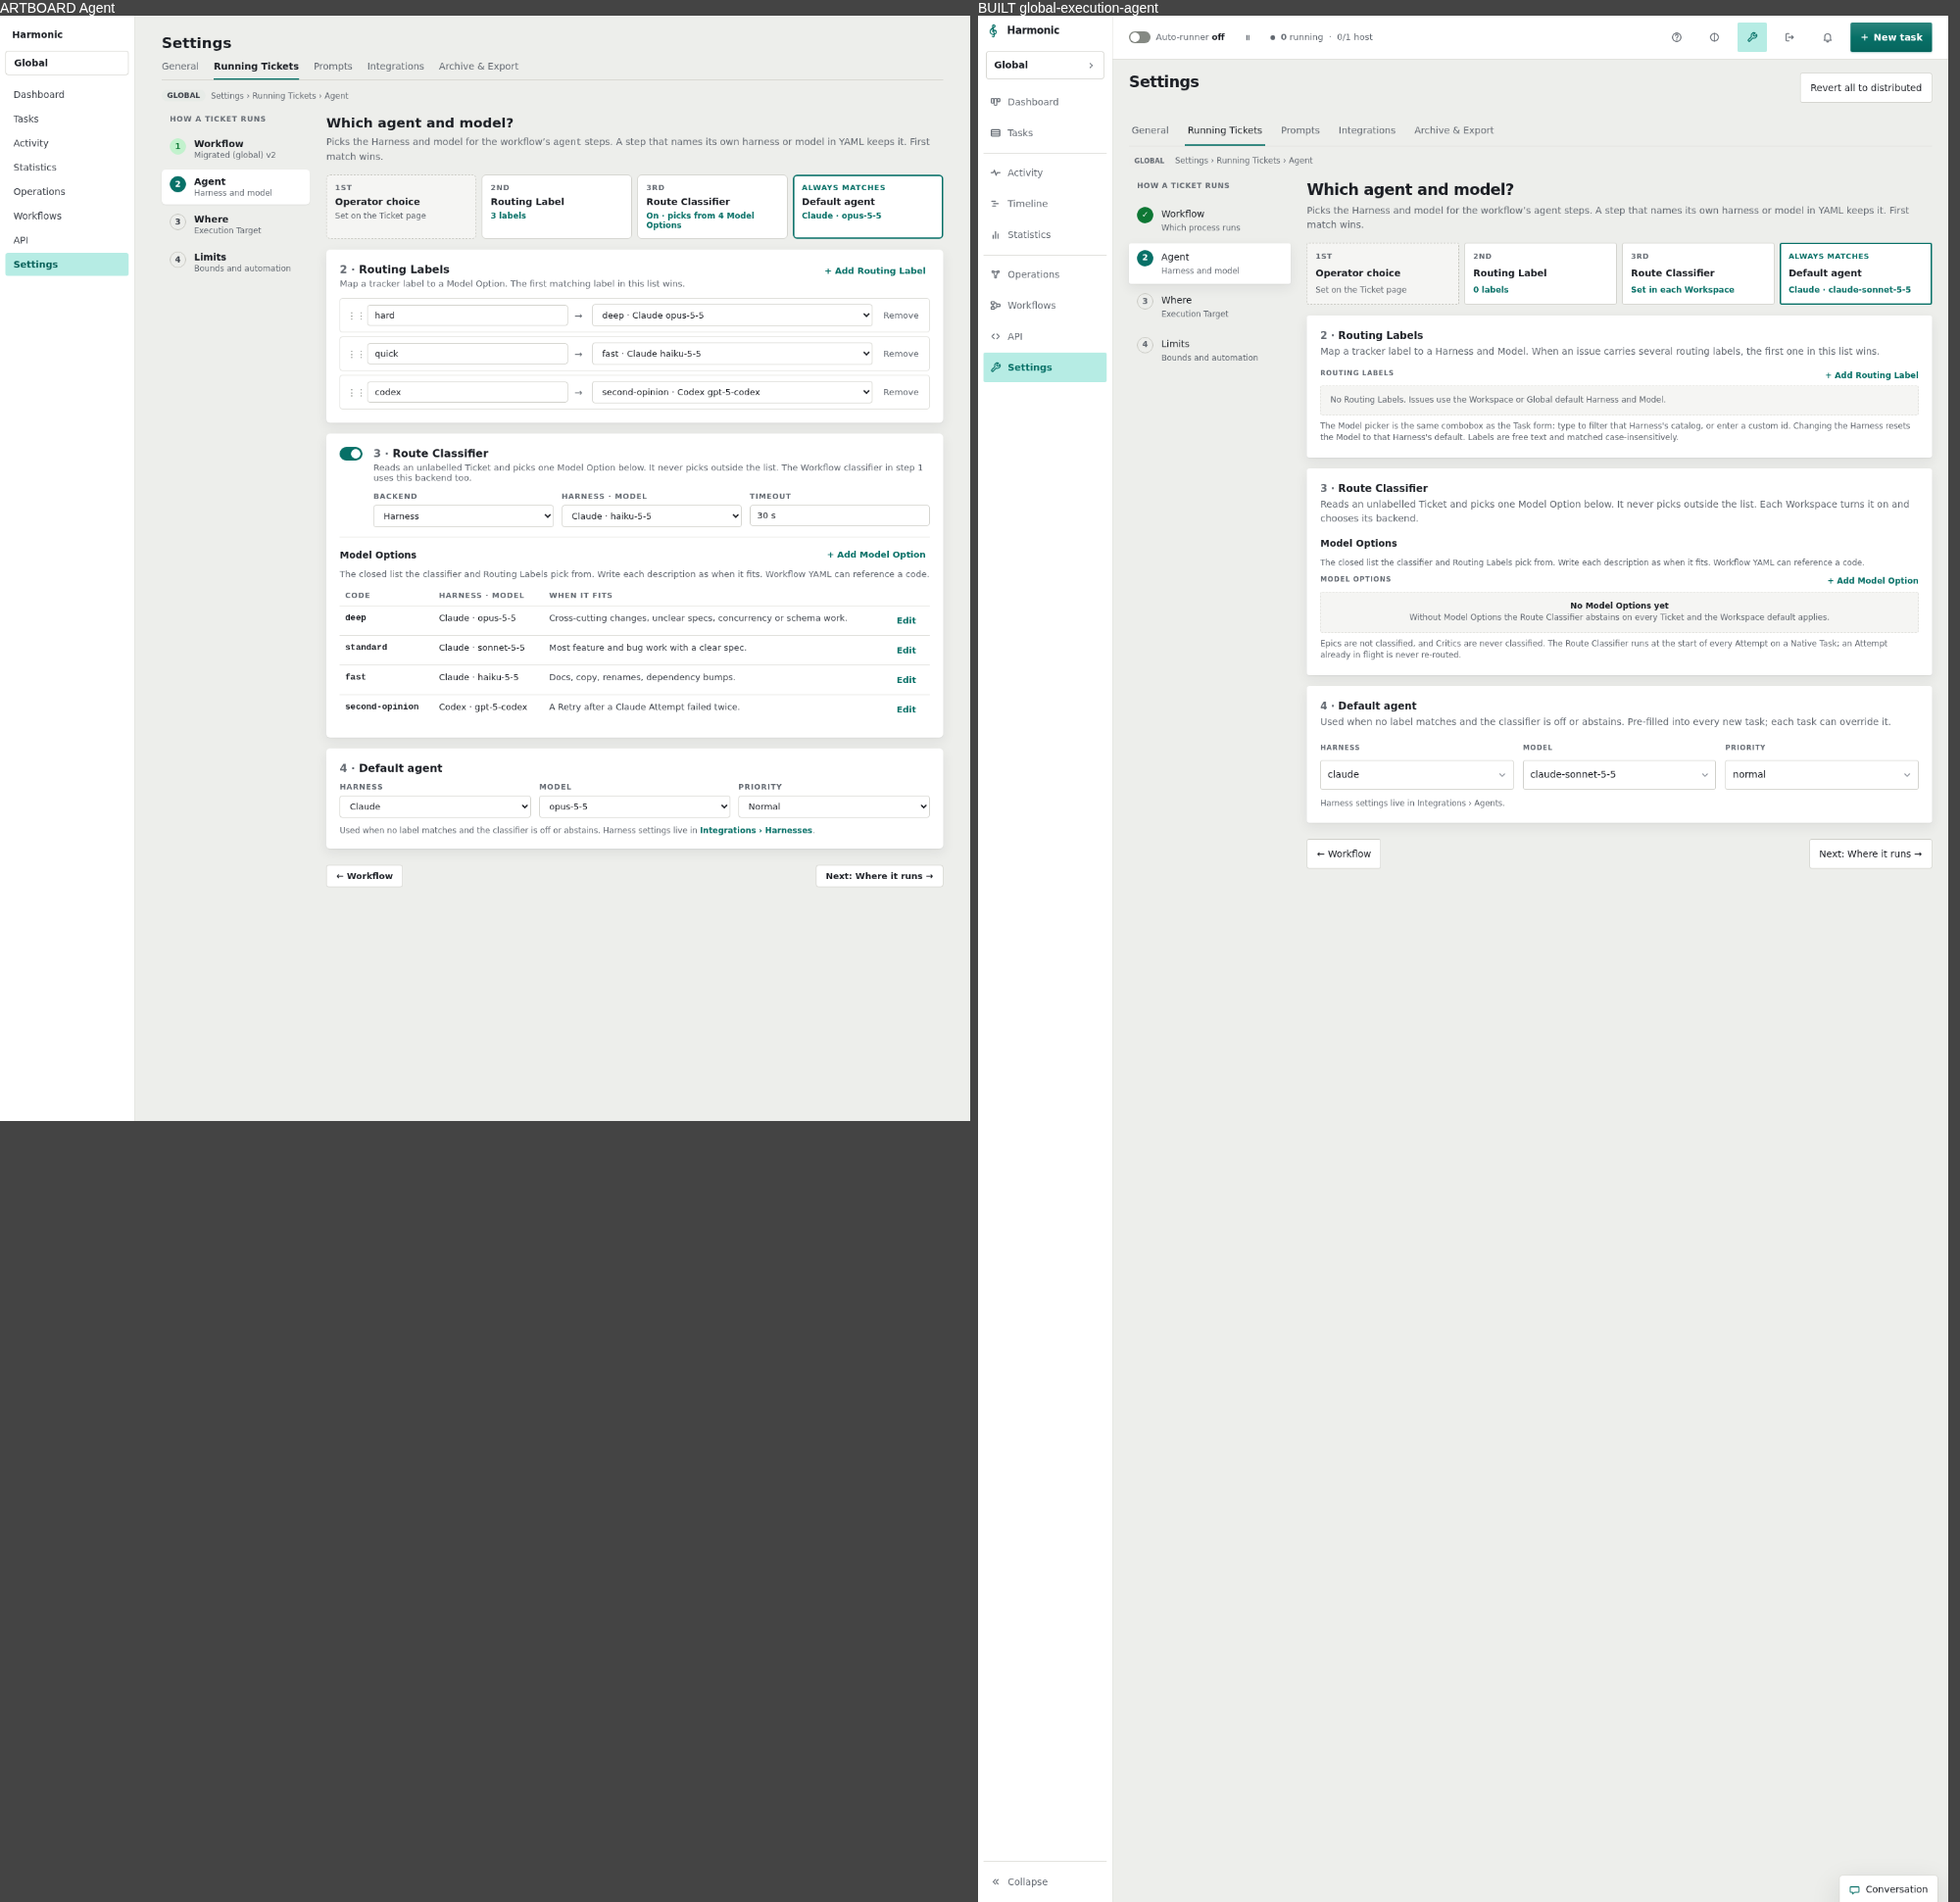
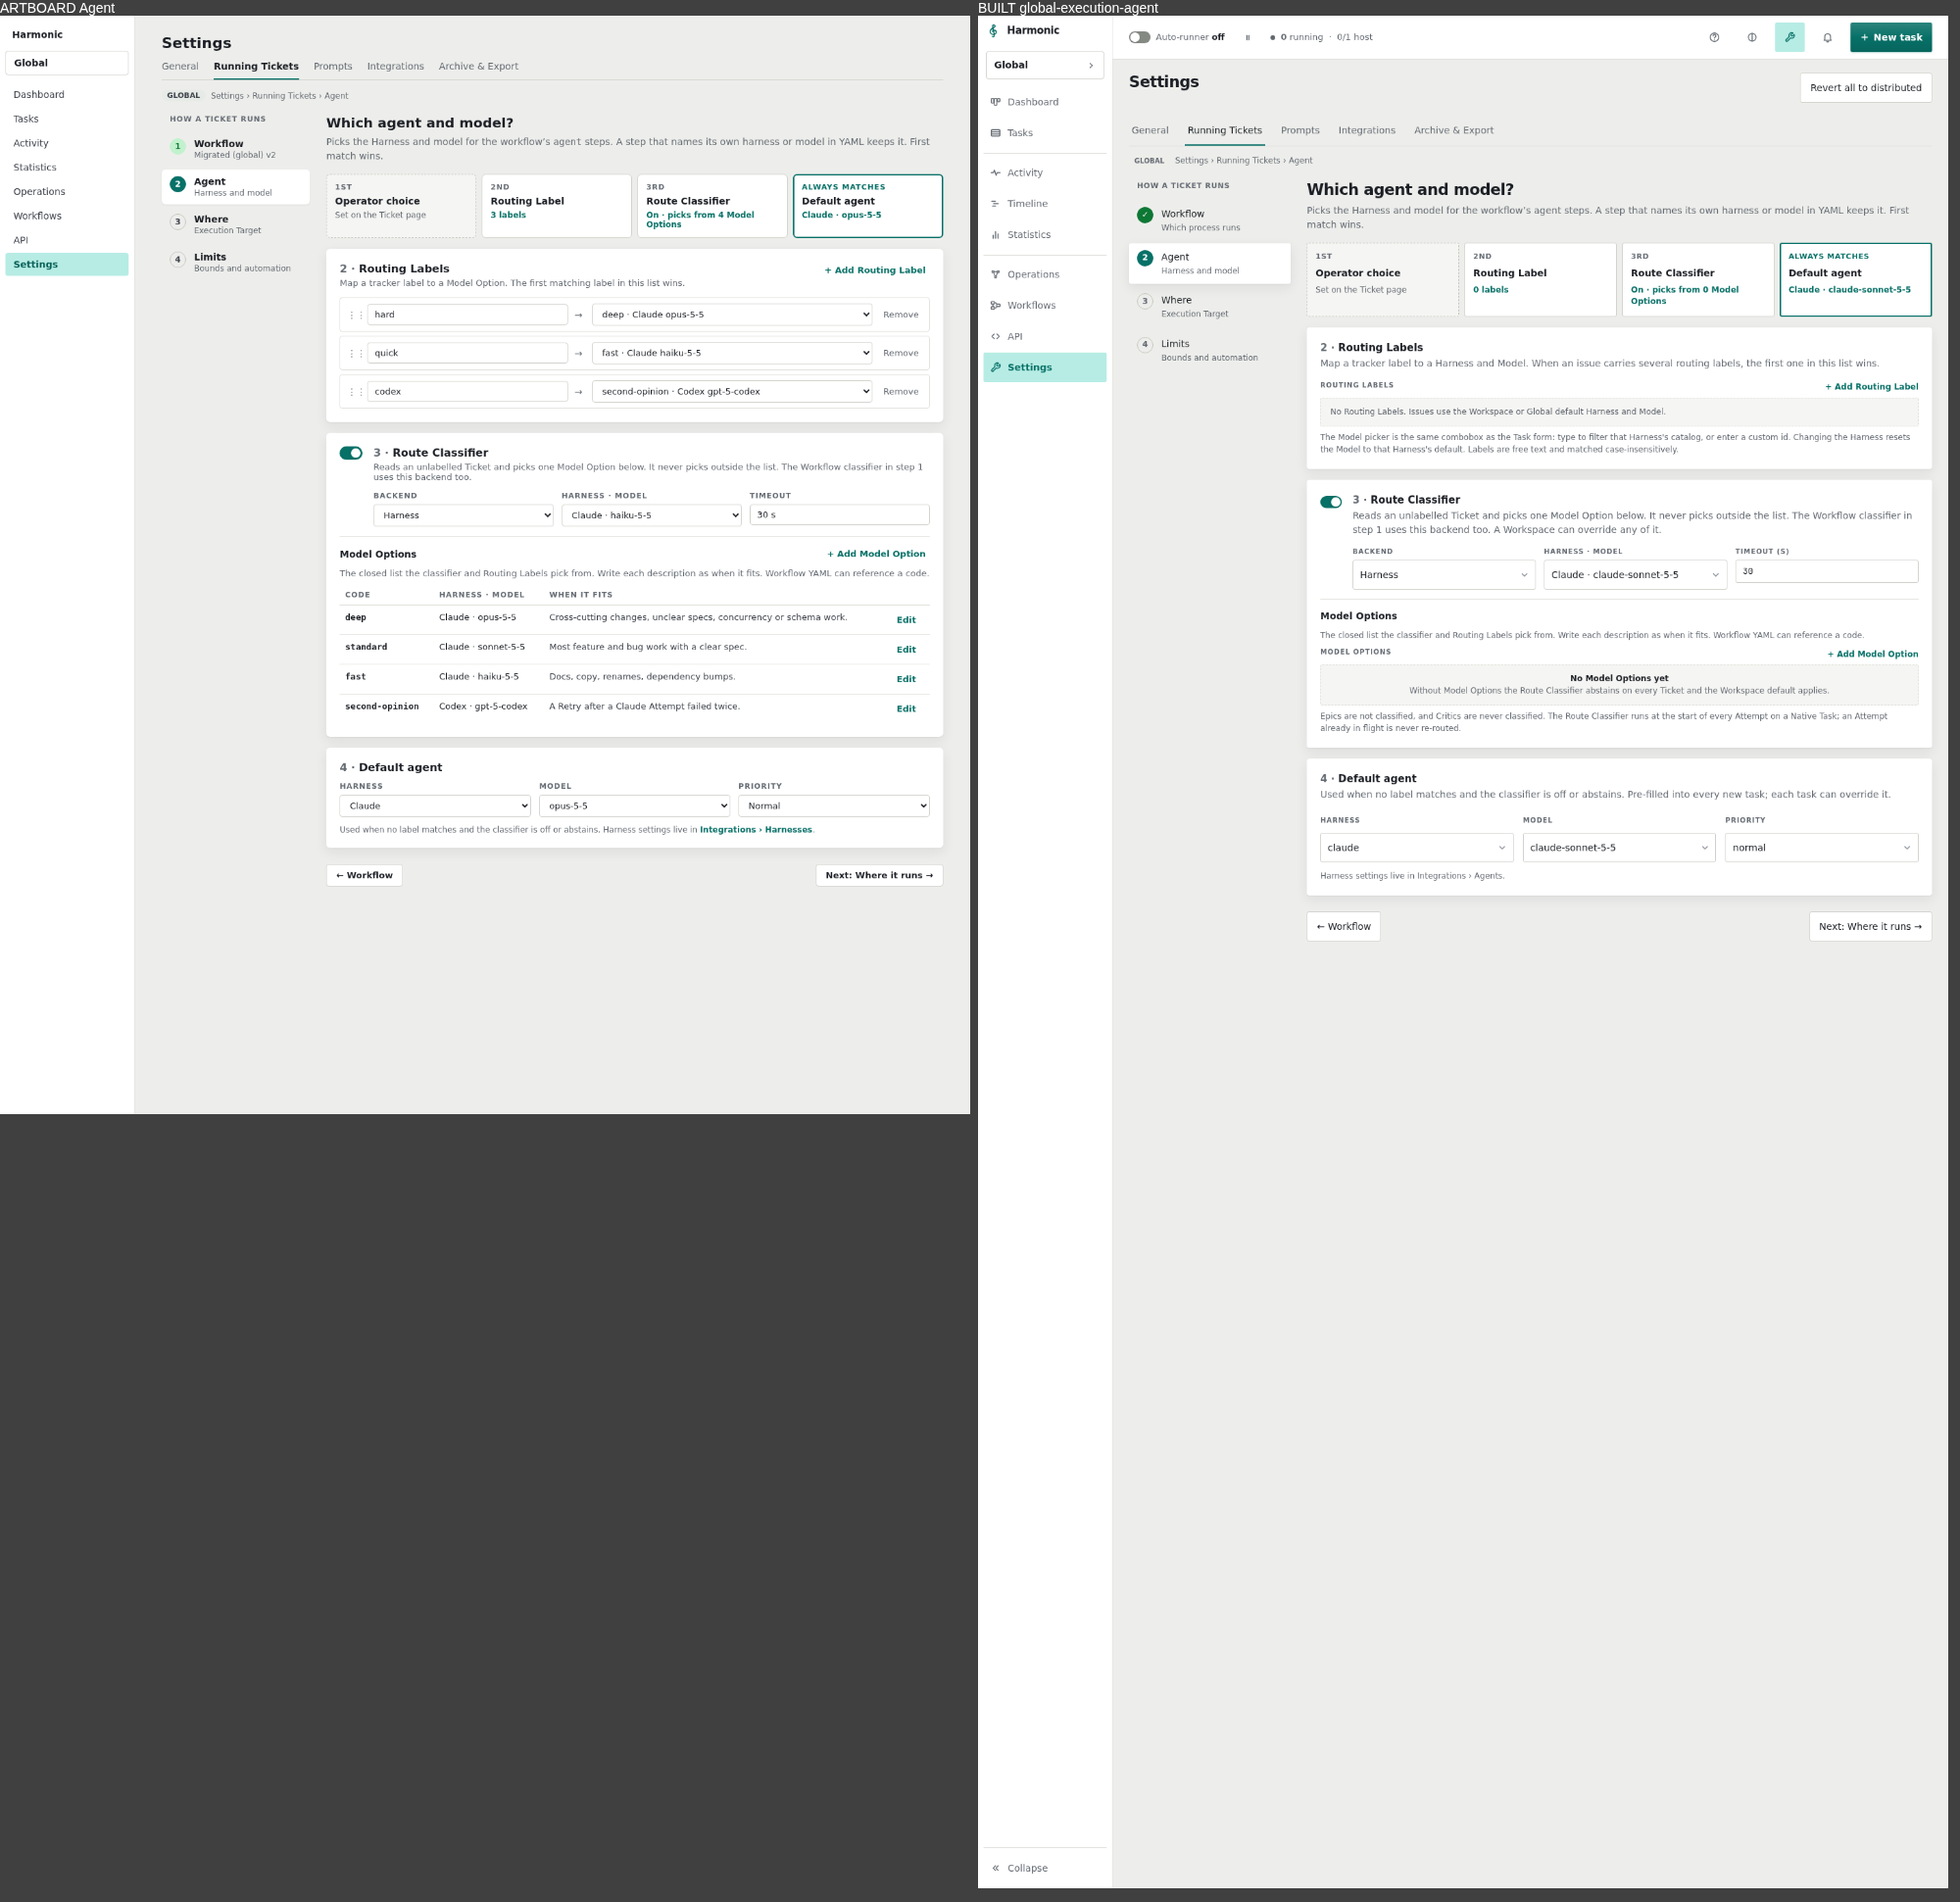
docs(settings): #968 re-take Main and Agent pair screenshots

diff --git a/docs/mockups/settings-flow/screenshots/verification/REPORT.md b/docs/mockups/settings-flow/screenshots/verification/REPORT.md
@@ -9,7 +9,7 @@ Notes: Global Integrations has only Agents and Updates (Code and Work are Worksp
 | Rail switches content, done/current, Back/Next, URL per step | match | all steps, both scopes (Workspace Prompts: defect #967) |
 | Rail sticky, stacks at 390px | match | `StepRail` md:sticky; 390 shots stack |
 | Resolution strips present, live | match | Workflow, Agent, Archive strips reflect settings |
-| Classifier cards at Global | defect | #968 |
+| Classifier cards at Global | match | #968: Workflow classifier and Route Classifier cards (switch, chip, title, Backend, Harness · model, Timeout, Model Options) re-taken in pair-Main and pair-Agent; only the artboard sample data differs |
 | Global Integrations steps (Agents, Updates only; Code and Work are Workspace-only) | match | #969: artboard amended, pair-Integrations re-taken |
 | Limits toggles/units/layout | defect | #970 |
 | Where Note wrapping | defect | #971 |
